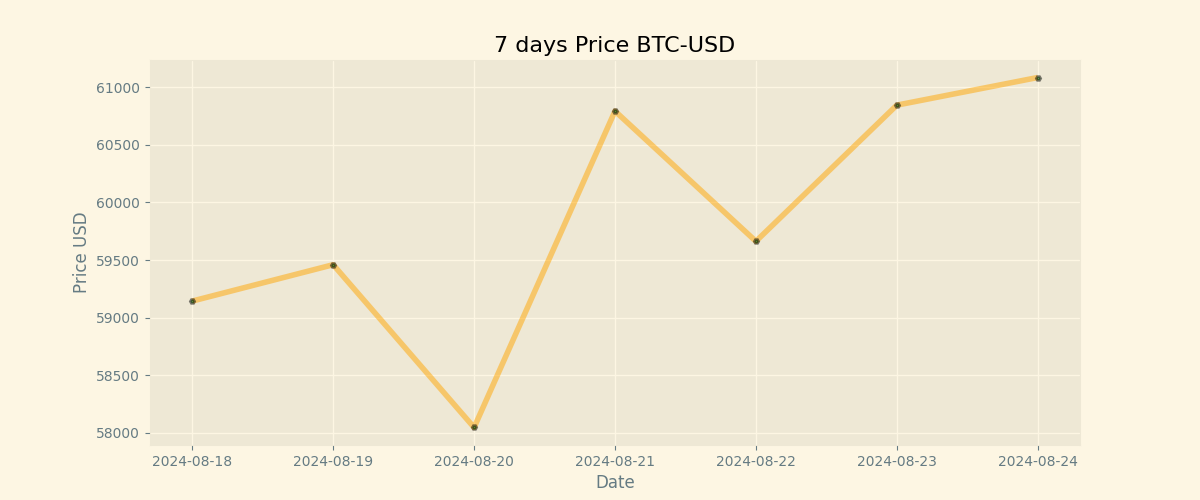
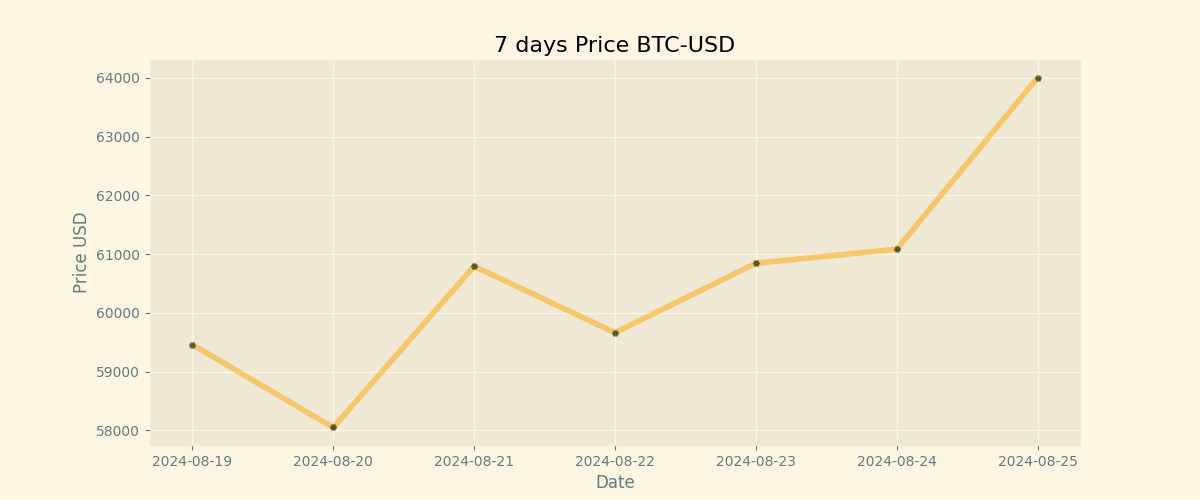
Duty Updates 2024-08-25

diff --git a/README.md b/README.md
@@ -9,8 +9,8 @@
 
 | Currency | Price           |
 | -------- | --------------- |
-| **BTC**  | **$ 61084.08** |
-| **ETH**  | **$ 2683.39** |
+| **BTC**  | **$ 64007.3** |
+| **ETH**  | **$ 2800.0** |
 
 ## BTC chart
 
